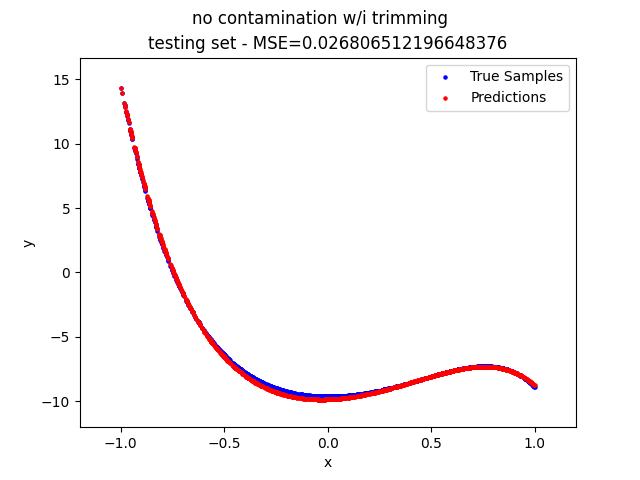
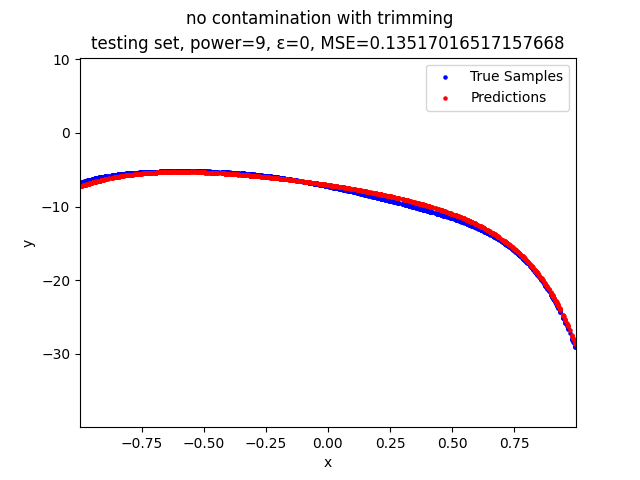
reorganize

diff --git a/tests/test_edge_contamination.py b/tests/test_edge_contamination.py
@@ -1,0 +1,86 @@
+import numpy as np
+from .utils import *
+
+
+def test_edge_contamination(power: int, w_low: float, w_high: float, x_low: float, x_high: float, noise_level: float, epsilon: float, training_size: int, testing_size: int, regressor: PolynomialRegressor):
+    rng = np.random.default_rng()
+    w = generate_random_weights(power, w_low, w_high)
+    x_training, y_training = generate_random_samples(
+        w, x_low, x_high, noise_level, training_size)
+    contamination_size = int(training_size * epsilon)
+    contaminated_indices = rng.choice(training_size, contamination_size, False)
+    x_contamination = rng.uniform(x_training.max(
+    ) - (x_training.max() - x_training.min()) / 10, x_training.max(), contamination_size)
+    y_contamination = rng.uniform(y_training.max(
+    ) * 2 - (y_training.max() - y_training.min()) / 10, y_training.max() * 2, contamination_size)
+    x_training[contaminated_indices] = x_contamination
+    y_training[contaminated_indices] = y_contamination
+    x_testing, y_testing = generate_random_samples(
+        w, x_low, x_high, 0, testing_size)
+    test_model(x_training, y_training, contaminated_indices,
+               x_testing, y_testing, regressor, "edge contamination")
+
+
+def test_begin_contamination(power: int, w_low: float, w_high: float, x_low: float, x_high: float, noise_level: float, epsilon: float, training_size: int, testing_size: int, regressor: PolynomialRegressor):
+    rng = np.random.default_rng()
+    w = generate_random_weights(power, w_low, w_high)
+    x_training, y_training = generate_random_samples(
+        w, x_low, x_high, noise_level, training_size)
+    contamination_size = int(training_size * epsilon)
+    contaminated_indices = np.argsort(
+        x_training)[np.arange(contamination_size)]
+    y_training[contaminated_indices] += (y_training.max() -
+                                         y_training.min()) * 2
+    x_testing, y_testing = generate_random_samples(
+        w, x_low, x_high, 0, testing_size)
+    test_model(x_training, y_training, contaminated_indices,
+               x_testing, y_testing, regressor, "begin contamination")
+
+
+def test_end_contamination(power: int, w_low: float, w_high: float, x_low: float, x_high: float, noise_level: float, epsilon: float, training_size: int, testing_size: int, regressor: PolynomialRegressor):
+    rng = np.random.default_rng()
+    w = generate_random_weights(power, w_low, w_high)
+    x_training, y_training = generate_random_samples(
+        w, x_low, x_high, noise_level, training_size)
+    contamination_size = int(training_size * epsilon)
+    contaminated_indices = np.argsort(x_training)[np.arange(
+        training_size - contamination_size, training_size)]
+    y_training[contaminated_indices] += (y_training.max() -
+                                         y_training.min()) * 2
+    x_testing, y_testing = generate_random_samples(
+        w, x_low, x_high, 0, testing_size)
+    test_model(x_training, y_training, contaminated_indices,
+               x_testing, y_testing, regressor, "end contamination")
+
+
+def test_mid_contamination(power: int, w_low: float, w_high: float, x_low: float, x_high: float, noise_level: float, epsilon: float, training_size: int, testing_size: int, regressor: PolynomialRegressor):
+    rng = np.random.default_rng()
+    w = generate_random_weights(power, w_low, w_high)
+    x_training, y_training = generate_random_samples(
+        w, x_low, x_high, noise_level, training_size)
+    contamination_size = int(training_size * epsilon)
+    contaminated_indices = np.argsort(x_training)[np.arange(
+        training_size // 2 - contamination_size // 2, training_size // 2 + contamination_size // 2)]
+    y_training[contaminated_indices] += (y_training.max() -
+                                         y_training.min()) * 2
+    x_testing, y_testing = generate_random_samples(
+        w, x_low, x_high, 0, testing_size)
+    test_model(x_training, y_training, contaminated_indices,
+               x_testing, y_testing, regressor, "mid contamination")
+
+
+def test_mid_rand_contamination(power: int, w_low: float, w_high: float, x_low: float, x_high: float, noise_level: float, epsilon: float, training_size: int, testing_size: int, regressor: PolynomialRegressor):
+    rng = np.random.default_rng()
+    w = generate_random_weights(power, w_low, w_high)
+    x_training, y_training = generate_random_samples(
+        w, x_low, x_high, noise_level, training_size)
+    contamination_size = int(training_size * epsilon)
+    num = rng.integers(2, 10)
+    contaminated_indices = np.argsort(x_training)[np.arange(
+        training_size // num, training_size // num + contamination_size)]
+    y_training[contaminated_indices] += (y_training.max() -
+                                         y_training.min()) * 2
+    x_testing, y_testing = generate_random_samples(
+        w, x_low, x_high, 0, testing_size)
+    test_model(x_training, y_training, contaminated_indices,
+               x_testing, y_testing, regressor, "mid rand contamination")

diff --git a/tests/utils/__init__.py b/tests/utils/__init__.py
@@ -26,17 +26,17 @@ def test_model(
     y_bar_training = regressor.predict(x_training)
     y_bar_testing = regressor.predict(x_testing)
     mse = mean_square_error(y_testing, y_bar_testing)
-    export_figure(x_training, y_training, y_bar_training, contaminated_indices,
-                  f"{test_name} with trimming", "training set", join(dir_name, "with_trimming_training"))
-    export_figure(x_testing, y_testing, y_bar_testing, None,
-                  f"{test_name} with trimming", f"testing set - MSE={mse}", join(dir_name, "with_trimming_testing"))
+    export_figure(x_training, y_training, y_bar_training, contaminated_indices, f"{test_name} with trimming", f"training set, power={regressor.power}, ε={regressor.model.loss.epsilon}", (
+        x_training.min(), x_training.max()), (y_training.min(), y_training.max()), join(dir_name, "with_trimming_training"))
+    export_figure(x_testing, y_testing, y_bar_testing, None, f"{test_name} with trimming", f"testing set, power={regressor.power}, ε={regressor.model.loss.epsilon}, MSE={mse}", (
+        x_training.min(), x_training.max()), (y_training.min(), y_training.max()), join(dir_name, "with_trimming_testing"))
 
-    regressor.model.loss.contamination_proportion = 0
+    regressor.model.loss.epsilon = 0
     regressor.fit(x_training, y_training)
     y_bar_training = regressor.predict(x_training)
     y_bar_testing = regressor.predict(x_testing)
     mse = mean_square_error(y_testing, y_bar_testing)
-    export_figure(x_training, y_training, y_bar_training, contaminated_indices,
-                  f"{test_name} without trimming", "training set", join(dir_name, "without_trimming_training"))
-    export_figure(x_testing, y_testing, y_bar_testing, None,
-                  f"{test_name} without trimming", f"testing set - MSE={mse}", join(dir_name, "without_trimming_testing"))
+    export_figure(x_training, y_training, y_bar_training, contaminated_indices, f"{test_name} without trimming", f"training set, power={regressor.power}, ε={regressor.model.loss.epsilon}", (
+        x_training.min(), x_training.max()), (y_training.min(), y_training.max()), join(dir_name, "without_trimming_training"))
+    export_figure(x_testing, y_testing, y_bar_testing, None, f"{test_name} without trimming", f"testing set, power={regressor.power}, ε={regressor.model.loss.epsilon}, MSE={mse}", (
+        x_training.min(), x_training.max()), (y_training.min(), y_training.max()), join(dir_name, "without_trimming_testing"))

diff --git a/tests/__main__.py b/tests/__main__.py
@@ -1,9 +1,40 @@
 from src.regularization import *
 from src.loss import *
 from .utils.polynomial_regressor import *
-from .test_no_contamination import *
 
-test_no_noise_no_contamination(5, -10, 10, -1, 1, 1000, 1000, PolynomialRegressor(
-    5, L2Regularization(), 0, SquaredLoss(0), 0.01, 100, 100000))
-test_no_contamination(5, -10, 10, -1, 1, 1, 1000, 1000, PolynomialRegressor(5,
-                      L2Regularization(), 0, SquaredLoss(0), 0.01, 100, 100000))
+from .test_no_contamination import *
+from .test_random_contamination import *
+from .test_parallel_line_contamination import *
+from .test_edge_contamination import *
+
+power = 9
+epsilon = 0.49
+
+test_no_noise_no_contamination(power, -10, 10, -1, 1, 1000, 1000, PolynomialRegressor(
+    power, L2Regularization(), 0, SquaredLoss(0), 0.01, 100, 100000))
+
+test_no_contamination(power, -10, 10, -1, 1, 1, 1000, 1000, PolynomialRegressor(
+    power, L2Regularization(), 0, SquaredLoss(0), 0.01, 100, 100000))
+
+test_random_contamination(power, -10, 10, -1, 1, 1, epsilon, 1000, 1000, PolynomialRegressor(
+    power, L2Regularization(), 0, SquaredLoss(epsilon), 0.01, 100, 100000))
+
+test_parallel_line_contamination(power, -10, 10, -1, 1, 1, epsilon, 1000, 1000, PolynomialRegressor(
+    power, L2Regularization(), 0, SquaredLoss(epsilon), 0.01, 100, 100000))
+
+epsilon = 0.25
+
+test_edge_contamination(power, -10, 10, -1, 1, 1, epsilon, 1000, 1000, PolynomialRegressor(
+    power, L2Regularization(), 0, SquaredLoss(epsilon), 0.01, 100, 100000))
+
+test_begin_contamination(power, -10, 10, -1, 1, 1, epsilon, 1000, 1000, PolynomialRegressor(
+    power, L2Regularization(), 0, SquaredLoss(epsilon), 0.01, 100, 100000))
+
+test_end_contamination(power, -10, 10, -1, 1, 1, epsilon, 1000, 1000, PolynomialRegressor(
+    power, L2Regularization(), 0, SquaredLoss(epsilon), 0.01, 100, 100000))
+
+test_mid_contamination(power, -10, 10, -1, 1, 1, epsilon, 1000, 1000, PolynomialRegressor(
+    power, L2Regularization(), 0, SquaredLoss(epsilon), 0.01, 100, 100000))
+
+test_mid_rand_contamination(power, -10, 10, -1, 1, 1, epsilon, 1000, 1000, PolynomialRegressor(
+    power, L2Regularization(), 0, SquaredLoss(epsilon), 0.01, 100, 100000))

diff --git a/tests/test_random_contamination.py b/tests/test_random_contamination.py
@@ -1,0 +1,21 @@
+import numpy as np
+from .utils import *
+
+
+def test_random_contamination(power: int, w_low: float, w_high: float, x_low: float, x_high: float, noise_level: float, epsilon: float, training_size: int, testing_size: int, regressor: PolynomialRegressor):
+    rng = np.random.default_rng()
+    w = generate_random_weights(power, w_low, w_high)
+    x_training, y_training = generate_random_samples(
+        w, x_low, x_high, noise_level, training_size)
+    contamination_size = int(training_size * epsilon)
+    contaminated_indices = rng.choice(training_size, contamination_size, False)
+    x_contamination = rng.uniform(
+        x_training.min(), x_training.max(), contamination_size)
+    y_contamination = rng.uniform(
+        y_training.min(), y_training.max(), contamination_size)
+    x_training[contaminated_indices] = x_contamination
+    y_training[contaminated_indices] = y_contamination
+    x_testing, y_testing = generate_random_samples(
+        w, x_low, x_high, 0, testing_size)
+    test_model(x_training, y_training, contaminated_indices, x_testing,
+               y_testing, regressor, "random contamination")

diff --git a/src/loss.py b/src/loss.py
@@ -5,8 +5,8 @@ from typing import Tuple
 
 
 class Loss(ABC):
-    def __init__(self, contamination_proportion: float):
-        self.contamination_proportion: float = contamination_proportion
+    def __init__(self, epsilon: float, **kwargs):
+        self.epsilon = epsilon
 
     def __call__(self, X: np.ndarray, w: np.ndarray, y: np.ndarray) -> Tuple[float, np.ndarray]:
         # returns loss and gradient, respectively
@@ -14,11 +14,11 @@ class Loss(ABC):
 
 
 class SquaredLoss(Loss):
-    def __init__(self, contamination_proportion: float):
-        super().__init__(contamination_proportion)
+    def __init__(self, epsilon: float, **kwargs):
+        self.epsilon = epsilon
 
     def __call__(self, X: np.ndarray, w: np.ndarray, y: np.ndarray) -> Tuple[float, np.ndarray]:
-        kept_size = ceil(X.shape[0] * (1 - self.contamination_proportion))
+        kept_size = ceil(X.shape[0] * (1 - self.epsilon))
         residuals = X.dot(w) - y
         losses = np.square(residuals)
         kept_indices = np.argsort(losses)[:kept_size]

diff --git a/tests/utils/figures.py b/tests/utils/figures.py
@@ -1,8 +1,10 @@
 import matplotlib.pyplot as plt
 import numpy as np
 
+from typing import Tuple
 
-def export_figure(x: np.ndarray,y: np.ndarray, y_bar: np.ndarray, contaminated_indices: np.ndarray,suptitle: str, title: str, filename: str):
+
+def export_figure(x: np.ndarray,y: np.ndarray, y_bar: np.ndarray, contaminated_indices: np.ndarray, suptitle: str, title: str, xlim: Tuple[float, float], ylim: Tuple[float, float], filename: str):
     plt.figure()
     if contaminated_indices is None:
         plt.scatter(x, y, s=5, c="blue", label="True Samples")
@@ -22,10 +24,8 @@ def export_figure(x: np.ndarray,y: np.ndarray, y_bar: np.ndarray, contaminated_i
     plt.title(title)
     plt.legend()
     plt.xlabel("x")
-    x_padding = (x.max() - x.min()) / 10
-    plt.xlim(x.min() - x_padding, x.max() + x_padding)
+    plt.xlim(xlim)
     plt.ylabel("y")
-    y_padding = (y.max() - y.min()) / 10
-    plt.ylim(y.min() - y_padding, y.max() + y_padding)
+    plt.ylim(ylim)
     plt.savefig(filename)
     plt.close()

diff --git a/tests/test_parallel_line_contamination.py b/tests/test_parallel_line_contamination.py
@@ -1,0 +1,17 @@
+import numpy as np
+from .utils import *
+
+
+def test_parallel_line_contamination(power: int, w_low: float, w_high: float, x_low: float, x_high: float, noise_level: float, epsilon: float, training_size: int, testing_size: int, regressor: PolynomialRegressor):
+    rng = np.random.default_rng()
+    w = generate_random_weights(power, w_low, w_high)
+    x_training, y_training = generate_random_samples(
+        w, x_low, x_high, noise_level, training_size)
+    contamination_size = int(training_size * epsilon)
+    contaminated_indices = rng.choice(training_size, contamination_size, False)
+    y_training[contaminated_indices] += (y_training.max() -
+                                         y_training.min()) * 2
+    x_testing, y_testing = generate_random_samples(
+        w, x_low, x_high, 0, testing_size)
+    test_model(x_training, y_training, contaminated_indices, x_testing,
+               y_testing, regressor, "parallel line contamination")

diff --git a/README.md b/README.md
@@ -12,14 +12,13 @@ We will test with random adversaries, adversaries attempting to affect the slope
 
 ## Algorithm
 
-    Procedure fit(X, y, ε, batch_size, η, max_iter, α) -> w:
+    Procedure fit:
         Initialize w
         While not converged and not exceeding max_iter iterations:
             Randomly select batch_size samples without replacement
-            Calculate the squared losses of all the samples in the batch, with α-weighted L2 regularization
+            Calculate the losses of all the samples in the batch
             Calculate the gradient of the losses with respect to w, ignoring the effects of the ε ⋅ batch_size samples with the largest losses
-            Update w := w - η ⋅ gradient
-        Return w
+            Update w
 
 ## Run
 
@@ -27,25 +26,29 @@ We will test with random adversaries, adversaries attempting to affect the slope
 python3 -m venv venv
 source venv/bin/activate
 pip3 install -r requirements.txt
-python3 main.py
+python3 -m tests
 ```
 
 ## Test Results
 
 | Condition | Training Set (with trimming) | Testing Set (with trimming) | Training Set (without trimming) | Testing Set (without trimming) |
 | - | - | - | - | - |
-| No noise, no contamination | ![](test_result_img/No%20Noise%20No%20Contamination%20Training%20with%20trimming.png) | ![](test_result_img/No%20Noise%20No%20Contamination%20Testing%20with%20trimming.png) | ![](test_result_img/No%20Noise%20No%20Contamination%20Training%20without%20trimming.png) | ![](test_result_img/No%20Noise%20No%20Contamination%20Testing%20without%20trimming.png) |
-| No contamination | ![](test_result_img/No%20Contamination%20Training%20with%20trimming.png) | ![](test_result_img/No%20Contamination%20Testing%20with%20trimming.png) | ![](test_result_img/No%20Contamination%20Training%20without%20trimming.png) | ![](test_result_img/No%20Contamination%20Testing%20without%20trimming.png) |
-| Random contamination | ![](test_result_img/Random%20Contamination%20Training%20with%20trimming.png) | ![](test_result_img/Random%20Contamination%20Testing%20with%20trimming.png) | ![](test_result_img/Random%20Contamination%20Training%20without%20trimming.png) | ![](test_result_img/Random%20Contamination%20Testing%20without%20trimming.png) |
-| Contamination on the corners | ![](test_result_img/Edge%20Contamination%20Training%20with%20trimming.png) | ![](test_result_img/Edge%20Contamination%20Testing%20with%20trimming.png) | ![](test_result_img/Edge%20Contamination%20Training%20without%20trimming.png) | ![](test_result_img/Edge%20Contamination%20Testing%20without%20trimming.png) |
-| Parallel line contamination | ![](test_result_img/Parallel%20Line%20Contamination%20Training%20with%20trimming.png) | ![](test_result_img/Parallel%20Line%20Contamination%20Testing%20with%20trimming.png) | ![](test_result_img/Parallel%20Line%20Contamination%20Training%20without%20trimming.png) | ![](test_result_img/Parallel%20Line%20Contamination%20Testing%20without%20trimming.png)
+| no noise no contamination | ![](test_results/no_noise_no_contamination/with_trimming_training.png) | ![](test_results/no_noise_no_contamination/with_trimming_testing.png) | ![](test_results/no_noise_no_contamination/without_trimming_training.png) | ![](test_results/no_noise_no_contamination/without_trimming_testing.png) |
+| no contamination | ![](test_results/no_contamination/with_trimming_training.png) | ![](test_results/no_contamination/with_trimming_testing.png) | ![](test_results/no_contamination/without_trimming_training.png) | ![](test_results/no_contamination/without_trimming_testing.png) |
+| random contamination | ![](test_results/random_contamination/with_trimming_training.png) | ![](test_results/random_contamination/with_trimming_testing.png) | ![](test_results/random_contamination/without_trimming_training.png) | ![](test_results/random_contamination/without_trimming_testing.png) |
+| parallel line contamination | ![](test_results/parallel_line_contamination/with_trimming_training.png) | ![](test_results/parallel_line_contamination/with_trimming_testing.png) | ![](test_results/parallel_line_contamination/without_trimming_training.png) | ![](test_results/parallel_line_contamination/without_trimming_testing.png) |
+| edge contamination | ![](test_results/edge_contamination/with_trimming_training.png) | ![](test_results/edge_contamination/with_trimming_testing.png) | ![](test_results/edge_contamination/without_trimming_training.png) | ![](test_results/edge_contamination/without_trimming_testing.png) |
+| begin contamination | ![](test_results/begin_contamination/with_trimming_training.png) | ![](test_results/begin_contamination/with_trimming_testing.png) | ![](test_results/begin_contamination/without_trimming_training.png) | ![](test_results/begin_contamination/without_trimming_testing.png) |
+| end contamination | ![](test_results/end_contamination/with_trimming_training.png) | ![](test_results/end_contamination/with_trimming_testing.png) | ![](test_results/end_contamination/without_trimming_training.png) | ![](test_results/end_contamination/without_trimming_testing.png) |
+| mid contamination | ![](test_results/mid_contamination/with_trimming_training.png) | ![](test_results/mid_contamination/with_trimming_testing.png) | ![](test_results/mid_contamination/without_trimming_training.png) | ![](test_results/mid_contamination/without_trimming_testing.png) |
+| mid rand contamination | ![](test_results/mid_rand_contamination/with_trimming_training.png) | ![](test_results/mid_rand_contamination/with_trimming_testing.png) | ![](test_results/mid_rand_contamination/without_trimming_training.png) | ![](test_results/mid_rand_contamination/without_trimming_testing.png) |
 
 ## TODO
 
-- Test with more epsilons on training data without contamination.
+- Add L1 regularization, absolute loss, and huber loss. Remove deprecated `main.py`
 
-- Test with more epsilons on training data with contamination having x and y following uniform distributions within their ranges in the authentic data.
+- Test the cases where a specific range of true samples are replaced by adversary contamination
 
-- Test with more epsilons on training data with adversary contaminations attempting to affect specific weights.
+- Find the failure boundaries of the model under different types of contamination
 
-- Verify the model with higher dimensions (powers).
+- Test whether the model still works when the fitted power is not equal to the true power
